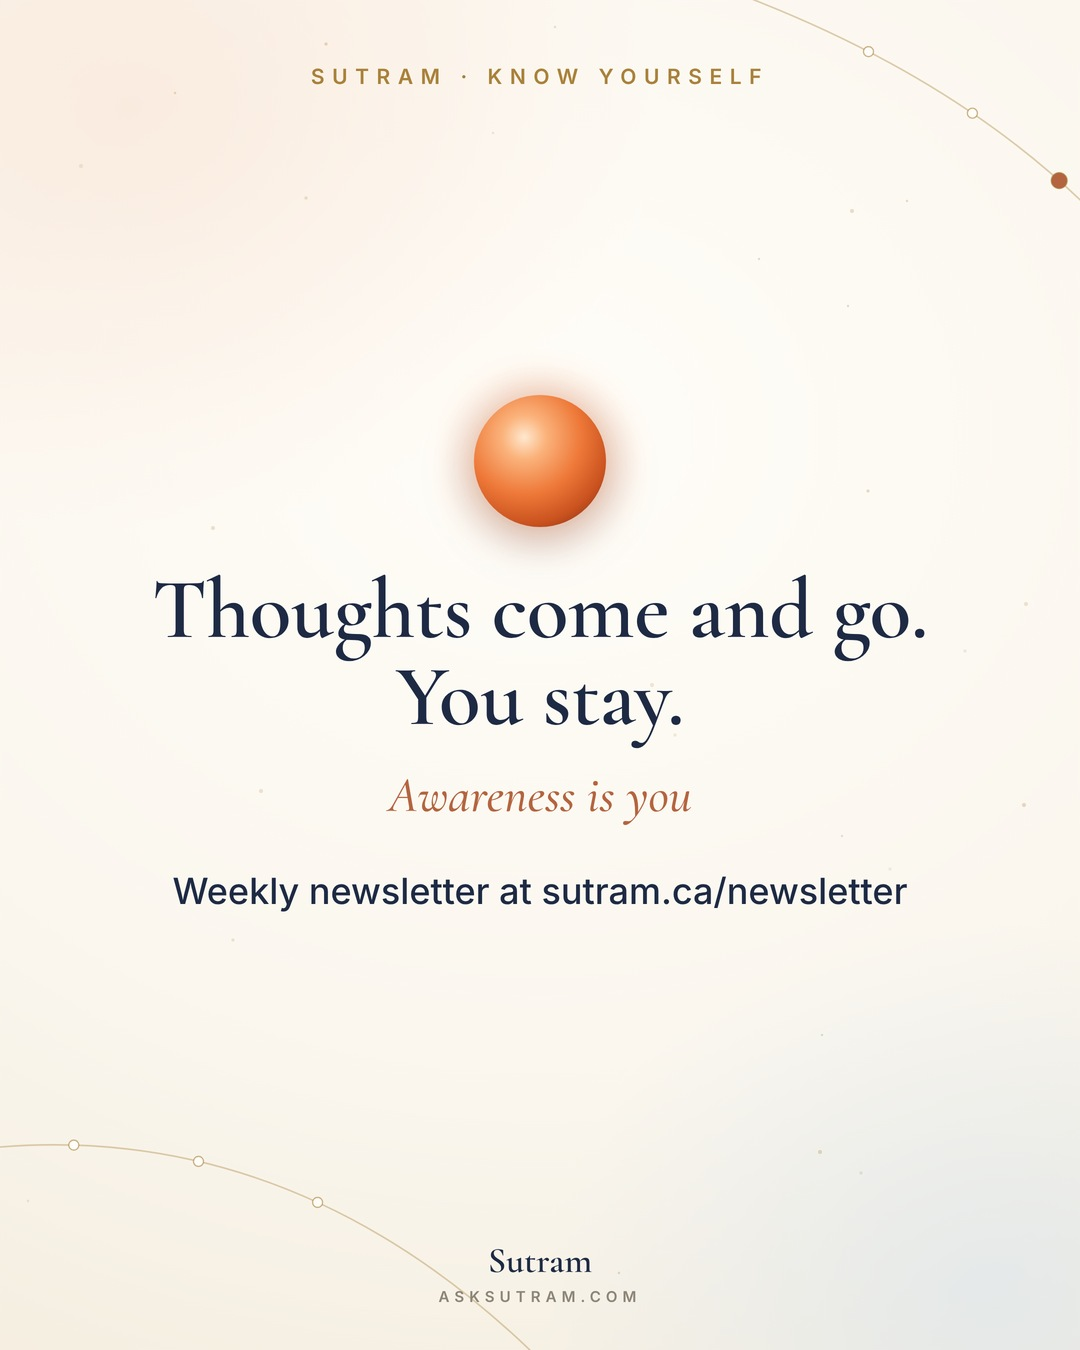
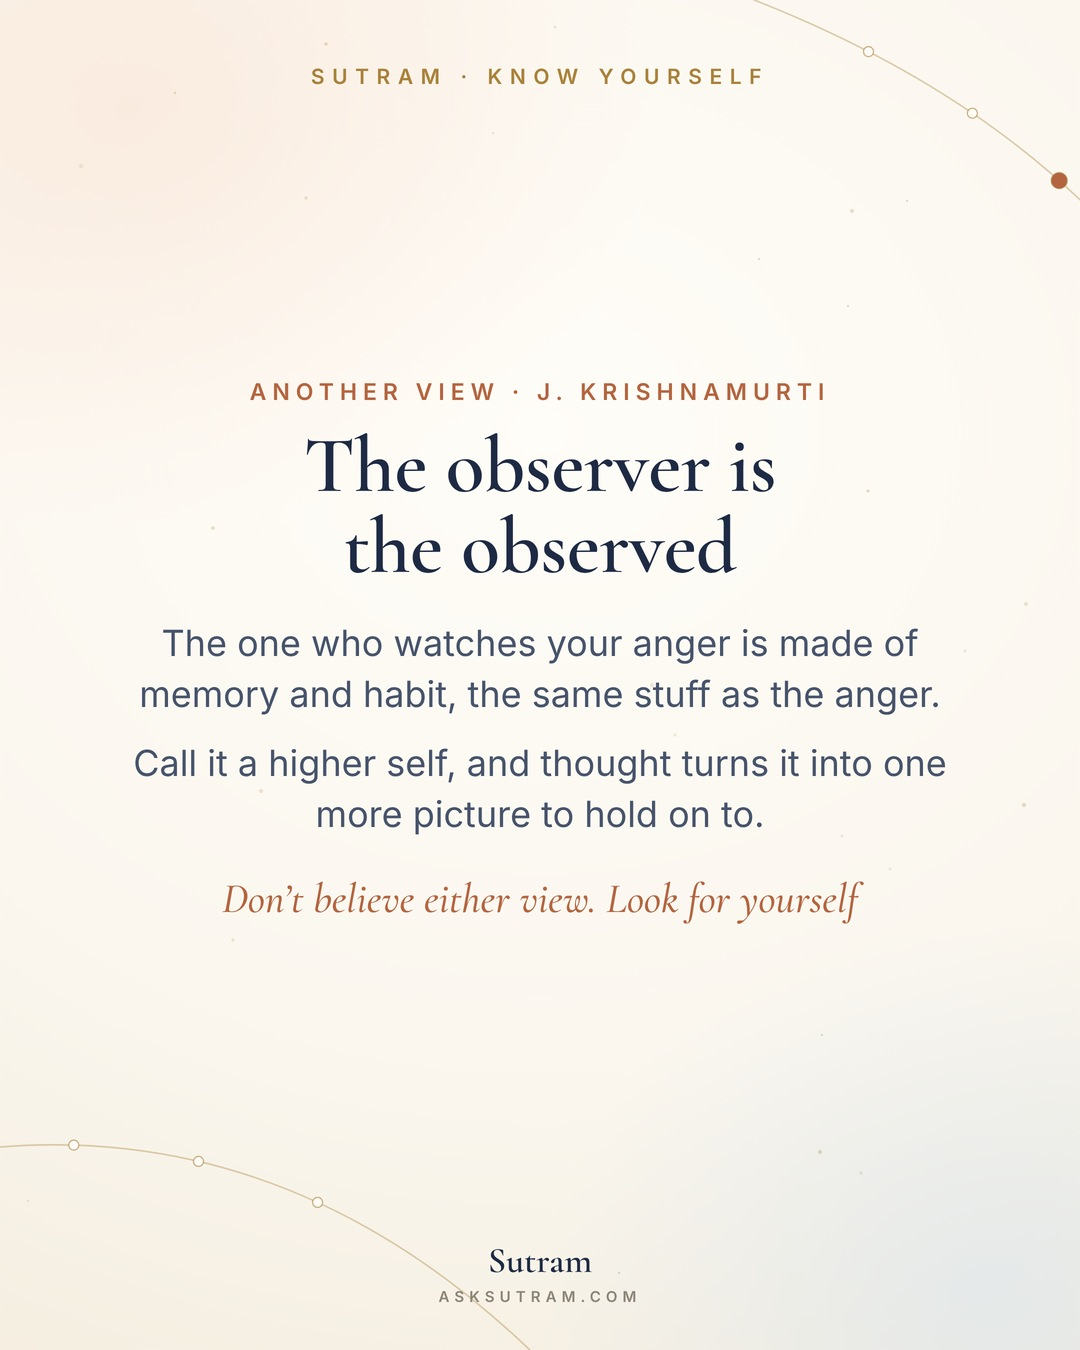
Awareness is you: explain Krishnamurti's view (new slide 8, fuller caption), at Sumant's request
Claude-Session: https://claude.ai/code/session_01X9pp4MPGSrEYuhTBtz7gpY

Changed region(s): [[0.1222, 0.28, 0.8861, 0.6222], [0.1528, 0.6533, 0.825, 0.6844]]

diff --git a/tools/post_awareness.py b/tools/post_awareness.py
@@ -20,6 +20,13 @@ Every verse was opened on 20 Nov 2026 before use. The English on the slides is S
 - Ramana Maharshi's question "Who am I?", Nisargadatta Maharaj's book I Am That, and Krishnamurti's push-back (thought
   invents a permanent thinker, such as the atman or the soul; the observer is the observed: awakeningtoreality.com excerpts)
   appear in the caption only.
+- 22 Nov 2026, Sumant: the Krishnamurti part was "half-baked"; explain it more. Added slide 8 and three caption paragraphs, from
+  pages opened that day: kfoundation.org, Freedom from the Known ("The Observer Is Also an Image": the observer is made of memory,
+  experience and tradition, the past; the observer is the observed; a higher self is another image; awareness shows the truth;
+  the conflict ends when this is seen), The Awakening of Intelligence ("Can You Look Without the Observer?": the one who is
+  jealous is the jealousy; full attention without resistance; the conflict ends with the division), and awakeningtoreality.com
+  (Talks in New Delhi, 4th public talk, 7 Nov 1982: out of confusion we invent something permanent, the Absolute, Brahman, God,
+  when what we are is the movement of thought). Only one phrase is quoted: "the observer is the observed".
 
     python3 tools/post_awareness.py      # writes specs/know-awareness.json, captions/know-awareness.txt, x-drafts/know-awareness-x.txt
     python3 tools/render_look.py specs/know-awareness.json --motion
@@ -48,6 +55,10 @@ SPEC = dict(id=PID, look='day', kicker='Sutram · Know yourself', slides=[
     dict(type='rows', label='Try it · Ramana Maharshi’s question', title='Who am I?',
          items=[['1', 'Notice a thought'], ['2', 'Notice that you noticed it'], ['3', 'Ask who is noticing']],
          closing='The answer is the one who asked'),
+    dict(type='text', label='Another view · J. Krishnamurti', title='The observer is\nthe observed', titlesize=80,
+         body=['The one who watches your anger is made of memory and habit, the same stuff as the anger.',
+               'Call it a higher self, and thought turns it into one more picture to hold on to.'], bodysize=36,
+         closing='Don’t believe either view. Look for yourself', closingsize=42),
     dict(type='cta', orbs=[SUN(66)], title='Thoughts come and go.\nYou stay.', titlesize=86, subtitle='Awareness is you',
          lines=['Weekly newsletter at sutram.ca/newsletter']),
 ])
@@ -66,7 +77,15 @@ Yoga Sutras 1.3: then the seer rests in its own nature
 
 And in Jyotish, Brihat Parashara Hora Shastra 3.12: the Sun is the Self of all, the Moon is the mind. The Moon has no light of its own. It shines with the Sun's. So does your mind.
 
-Ramana Maharshi turned all of this into one question: Who am I? Nisargadatta Maharaj taught the same in I Am That. Krishnamurti pushed back: for him any higher self is one more idea made by thought. Look for yourself.
+Ramana Maharshi turned all of this into one question: Who am I? Nisargadatta Maharaj taught the same in I Am That.
+
+Krishnamurti pushed back, and his reason is worth slowing down for. When you watch your anger, it feels like there are two of you: the one who is angry and the one who watches. He asked what that watcher is made of. Memory, habit, likes and dislikes, all from the past, the same stuff as the anger. In his words, "the observer is the observed" (Freedom from the Known).
+
+That is why he would not call the watcher a higher self. For him a higher self is just another image the mind makes, and it is plain awareness that shows the truth (same book). Out of confusion, he said, we invent something permanent to hold on to, a Brahman or a God, when what we are is the movement of thought (talk in New Delhi, 7 November 1982).
+
+His way to look: when anger comes, don't split into the angry one and the judge. Stay with it fully, without fighting it. When the split ends, he said, the conflict ends (The Awakening of Intelligence).
+
+Do the old texts and Krishnamurti disagree? In words, yes. The Upanishads name the seer the Self. Krishnamurti refused to name it, so thought could not turn it into a thing. Sutram's reading: both send you to the same place. Look for the watcher yourself, and see what you find.
 
 Who is aware of this sentence?
 
